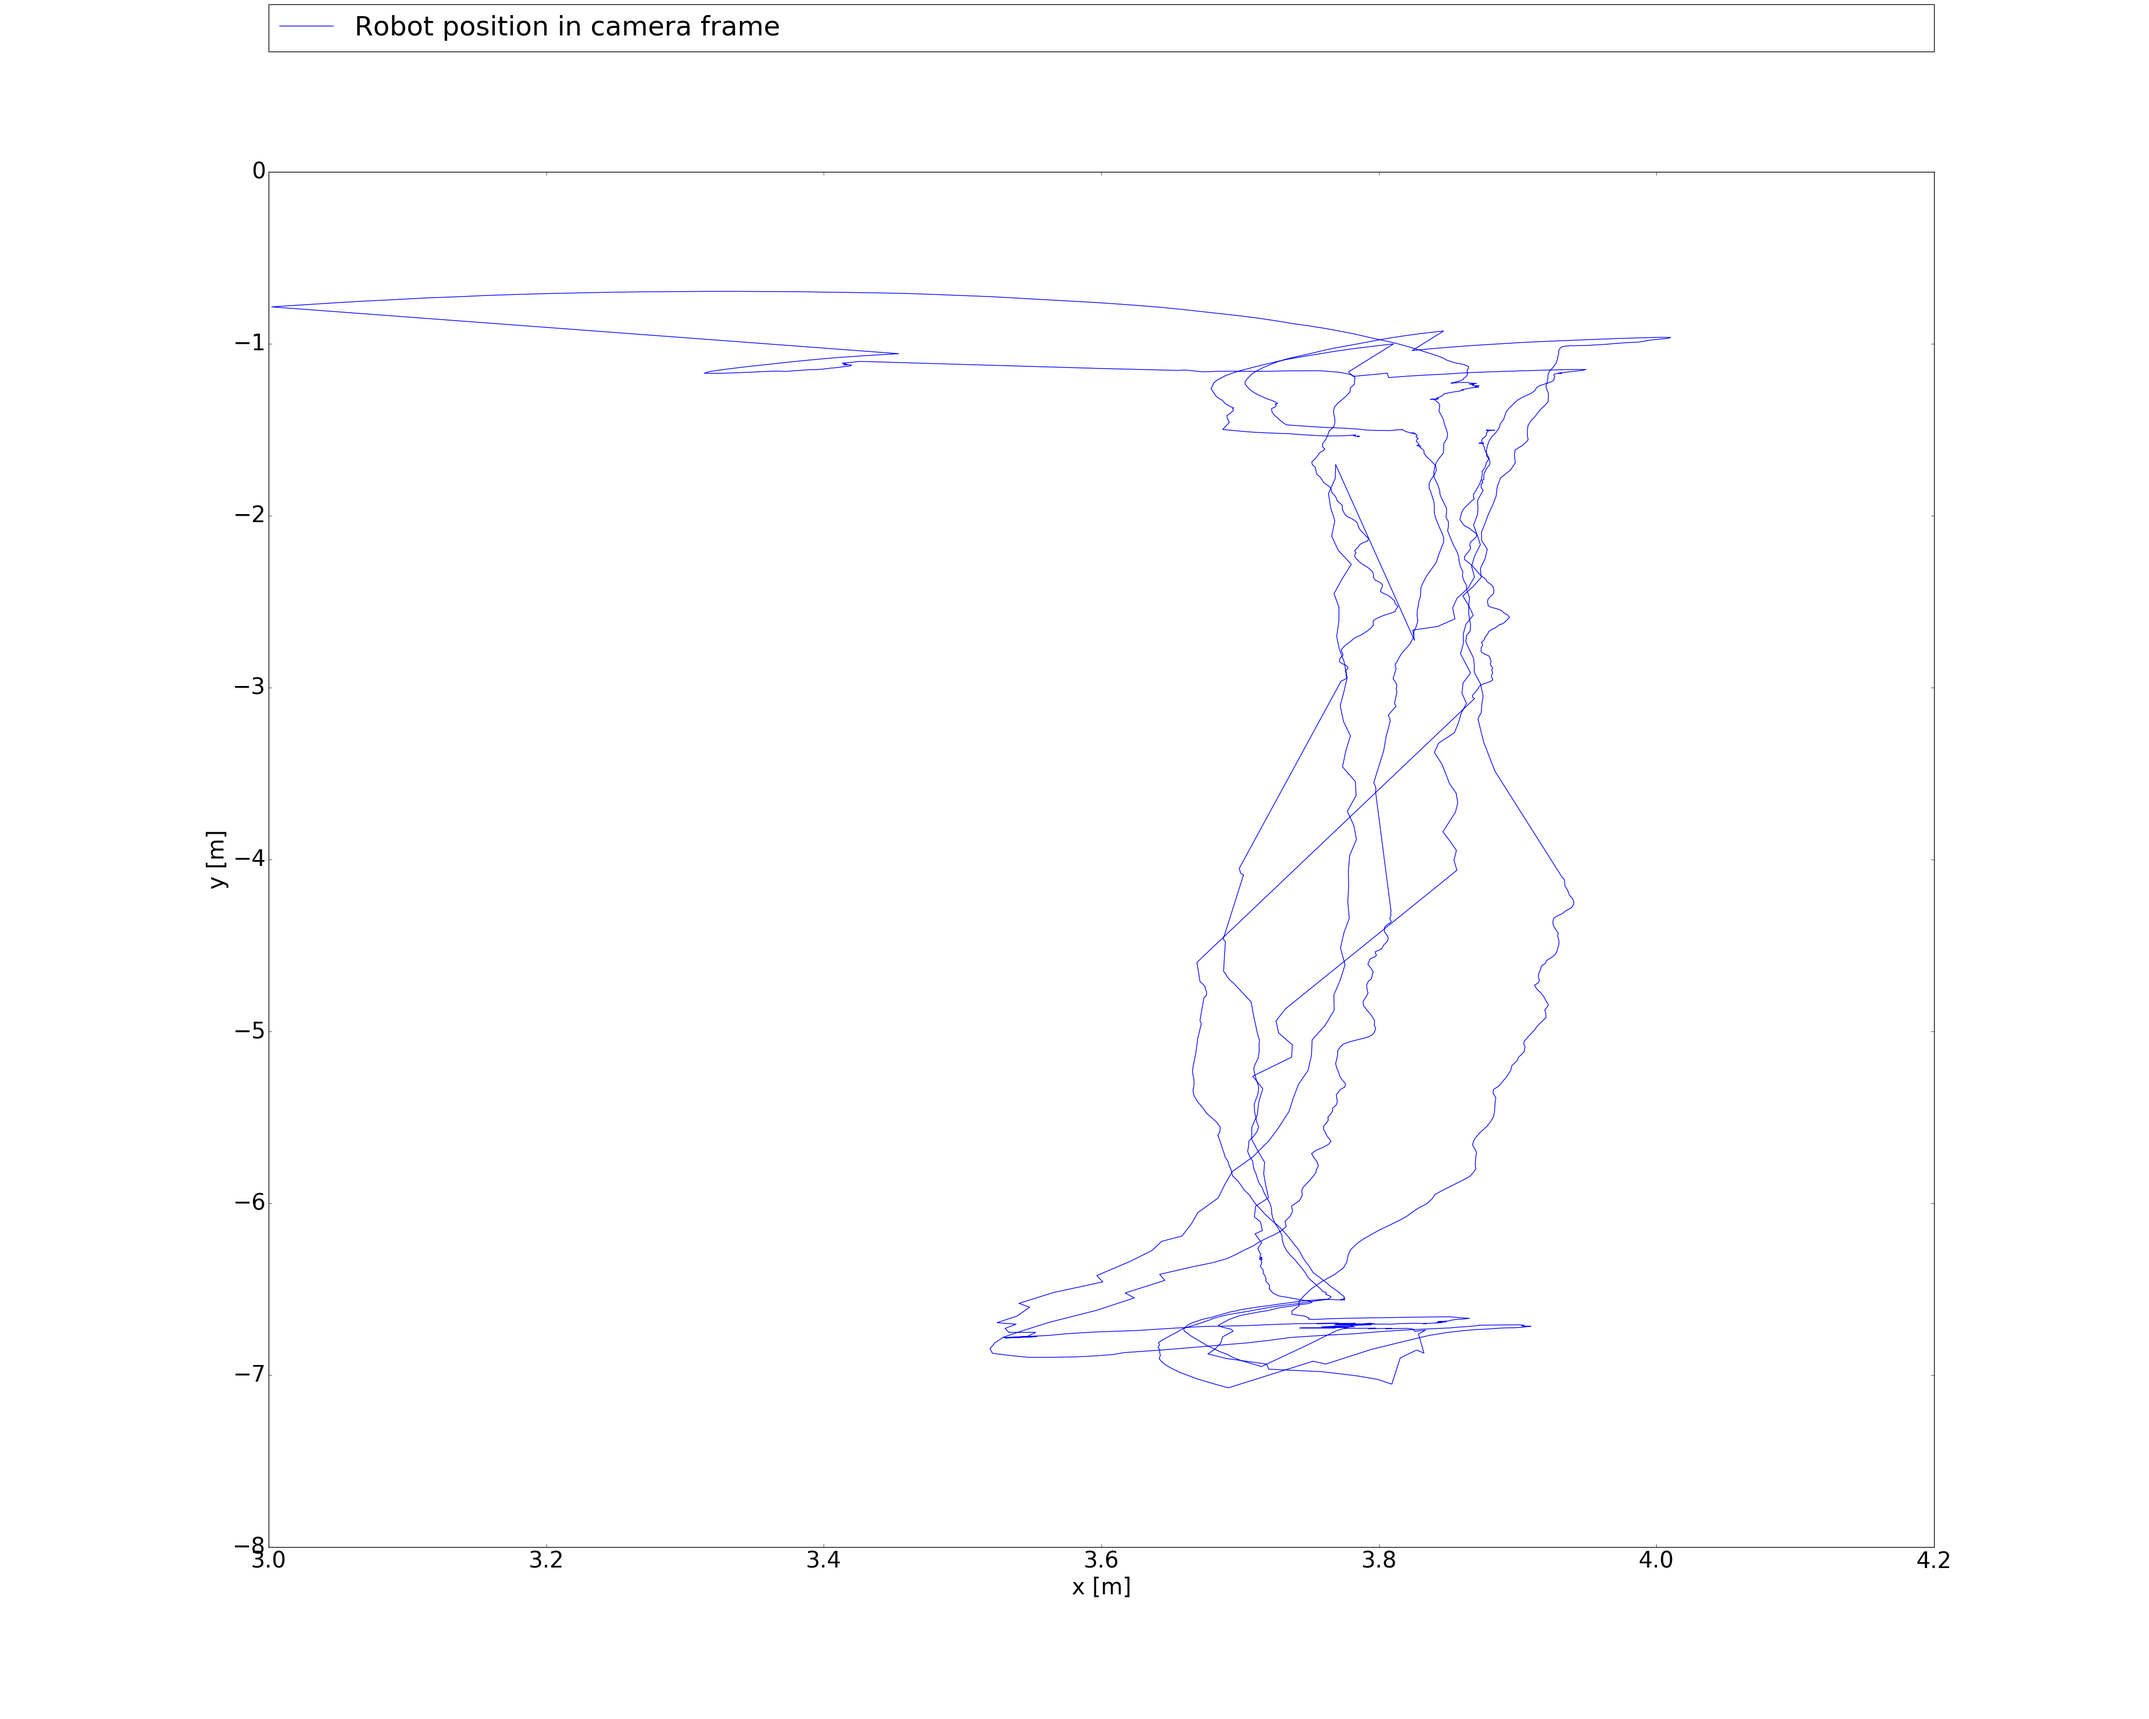
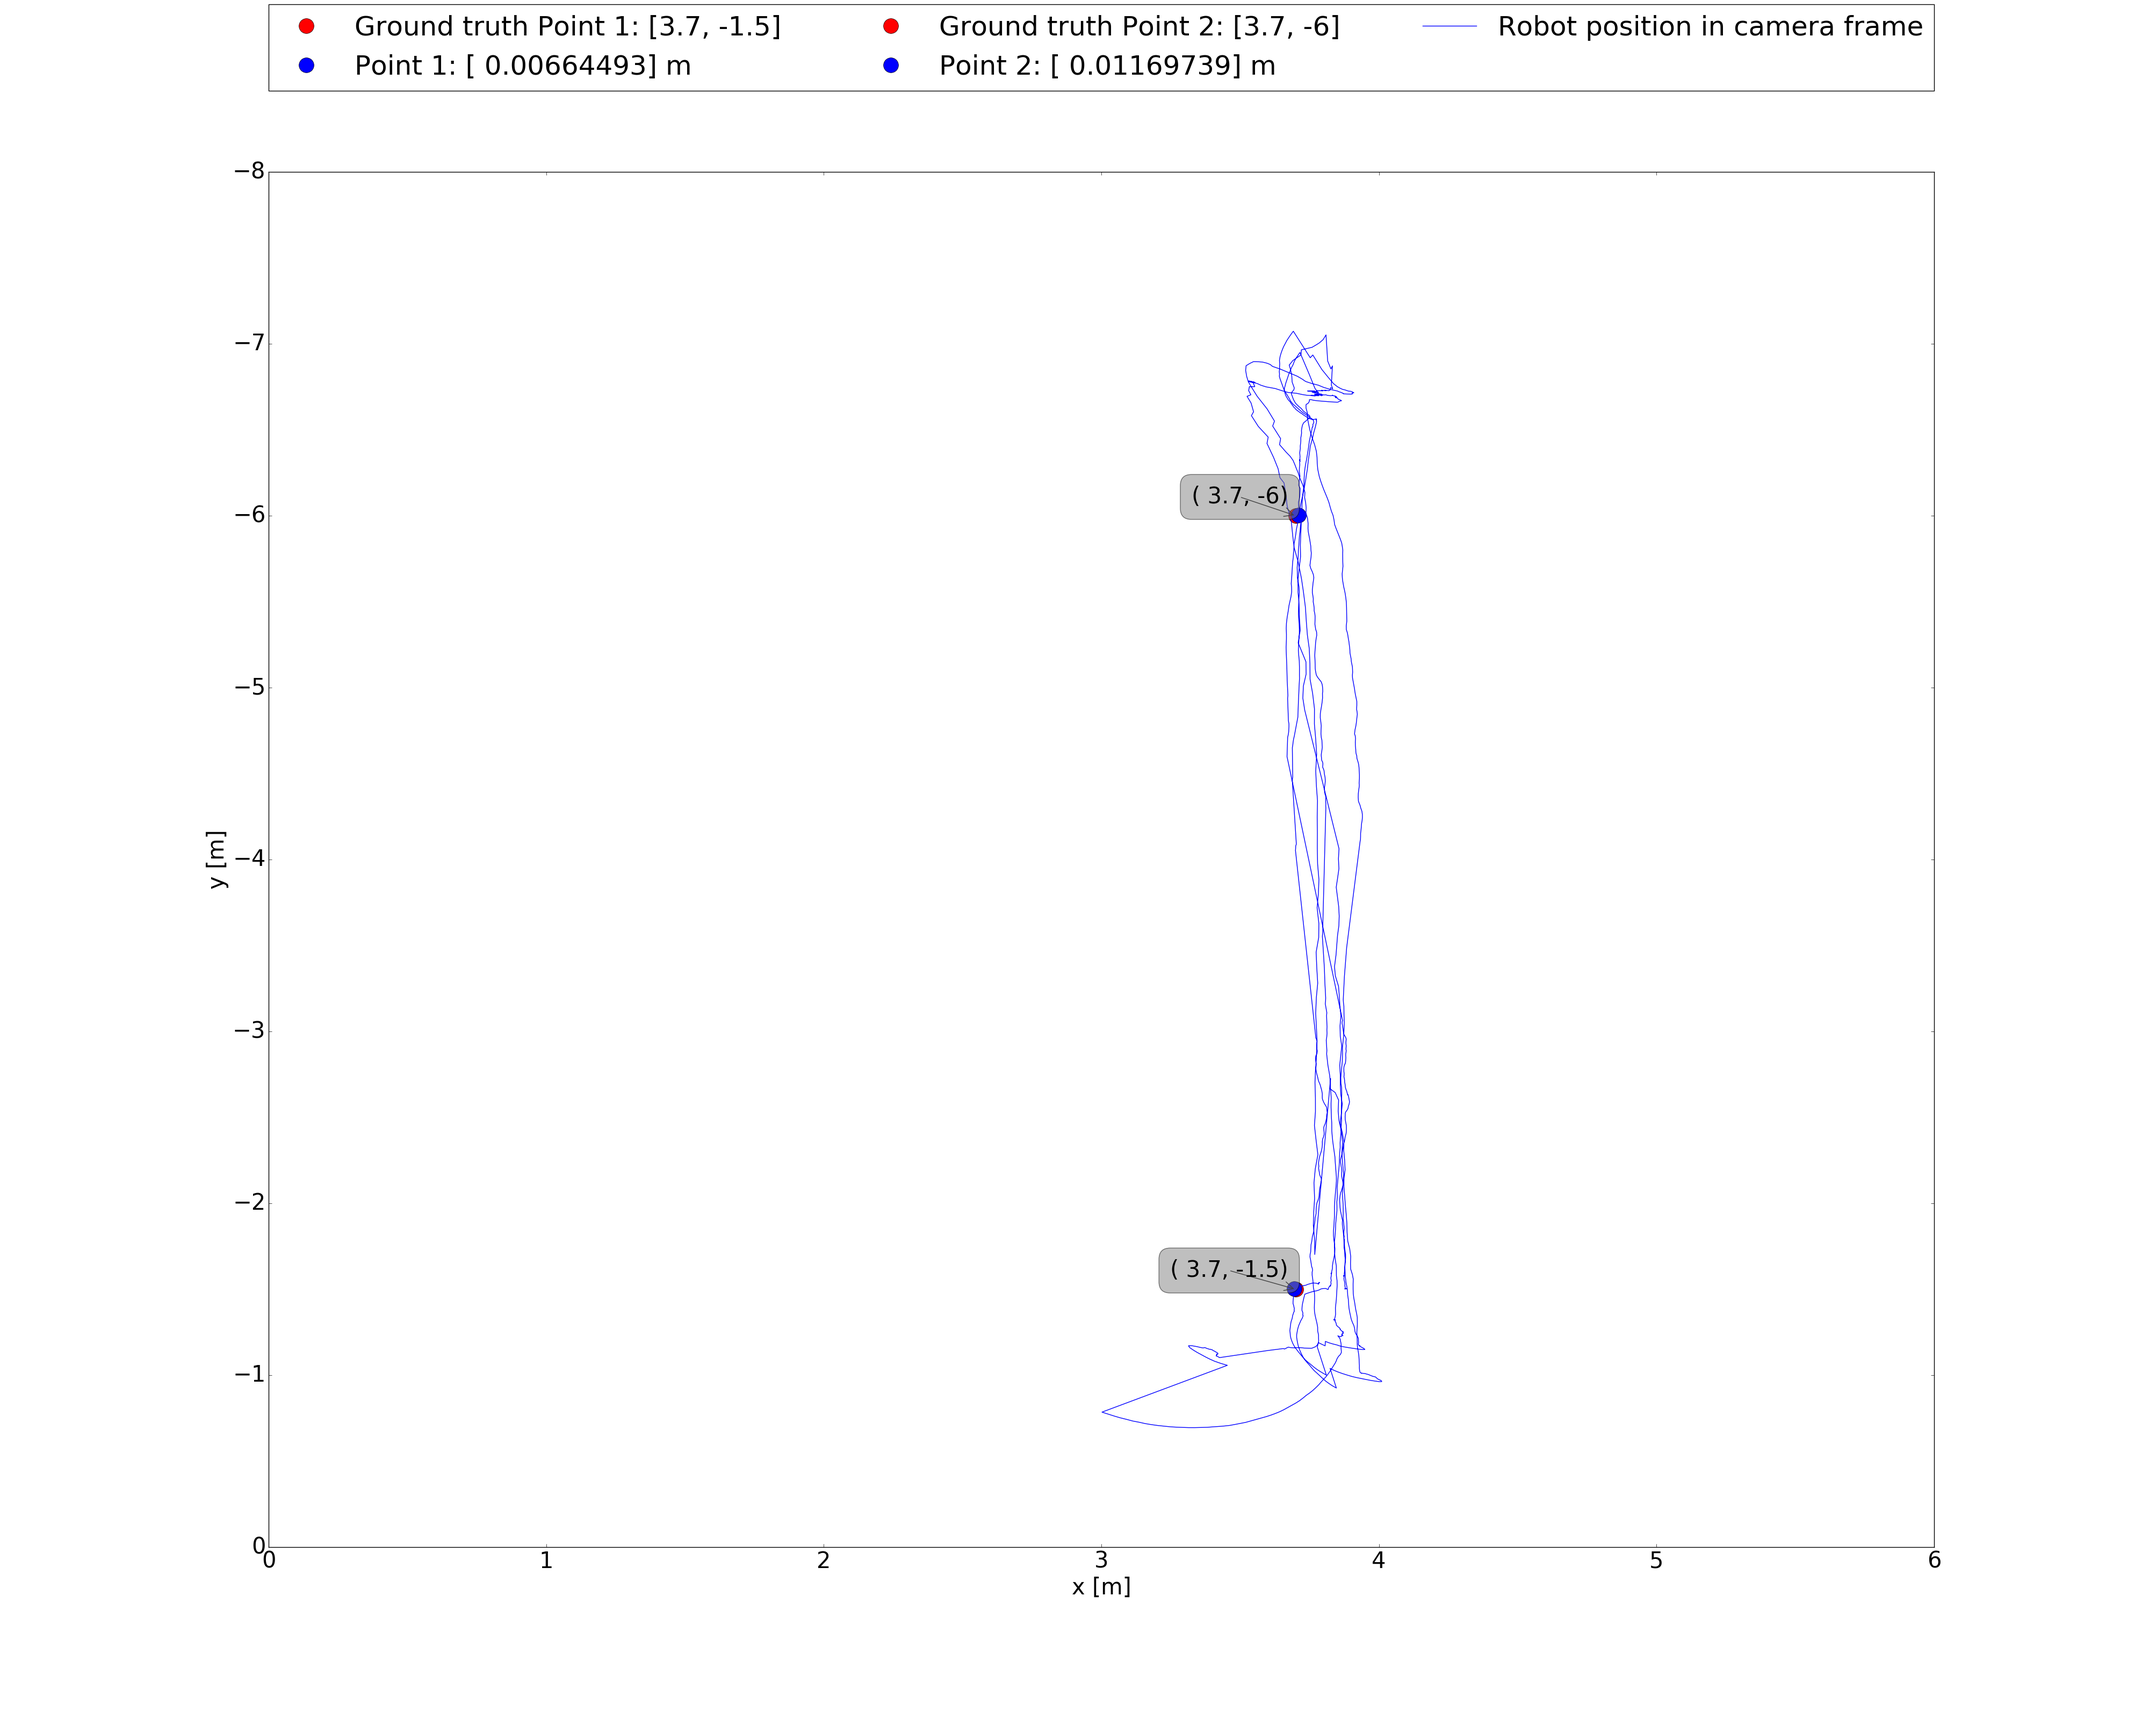
drift

diff --git a/Kyb_prog/indoor_measurment/manual_indoor/drift.py b/Kyb_prog/indoor_measurment/manual_indoor/drift.py
@@ -69,21 +69,25 @@ if __name__== "__main__":
 
     plt.rcParams.update({'font.size': 30})
 
-    file_name = 'sideSquare-base_link_odom_camera_is1500.csv'
+    file_name = 'driftAfter30SecHideFiducial5visibles-base_link_odom_camera_is1500.csv'
     err_min_1, err_min_1, n_1, Strecke_1 = function(file_name)
     # print(Strecke_1[int(1)][int(1)])
-    f = plt.figure(1, figsize=(40, 32))
-    ax = f.add_subplot(111)
-    for i in range(0, len(Strecke_1), 1):
-        plt.plot(Strecke_1[int(i)][int(0)], Strecke_1[int(i)][int(1)], 'o' ,color='red', markersize=20, label="Ground truth Point " +str(i+1) + ": "+str(Strecke_1[i]))
-        plt.plot(base_link_x_odom_camera[int(n_1[i])], base_link_y_odom_camera[int(n_1[i])], 'o' ,color='blue', markersize=20, label="Point " +str(i+1) + ": " + str(err_min_1[i]) + " m")
-        plt.annotate(
-            str('( ' + str(Strecke_1[int(i)][int(0)]) +', ' + str(Strecke_1[int(i)][int(1)]) + ')'),
-            xy=((Strecke_1[int(i)][int(0)]+0.0), (Strecke_1[int(i)][int(1)])+0.0), xytext=(-10, 10),
-            textcoords='offset points', ha='right', va='bottom',
-            bbox=dict(boxstyle='round,pad=0.5', fc='grey', alpha=0.5),
-            arrowprops=dict(arrowstyle = '->', connectionstyle='arc3,rad=0'))
-    plt.plot(base_link_x_odom_camera, base_link_y_odom_camera, label='Robot position in camera frame')
+    # f = plt.figure(1, figsize=(40, 32))
+    # ax = f.add_subplot(111)
+    # for i in range(0, len(Strecke_1), 1):
+    #     plt.plot(Strecke_1[int(i)][int(0)], Strecke_1[int(i)][int(1)], 'o' ,color='red', markersize=20, label="Ground truth Point " +str(i+1) + ": "+str(Strecke_1[i]))
+    #     plt.plot(base_link_x_odom_camera[int(n_1[i])], base_link_y_odom_camera[int(n_1[i])], 'o' ,color='blue', markersize=20, label="Point " +str(i+1) + ": " + str(err_min_1[i]) + " m")
+    #     plt.annotate(
+    #         str('( ' + str(Strecke_1[int(i)][int(0)]) +', ' + str(Strecke_1[int(i)][int(1)]) + ')'),
+    #         xy=((Strecke_1[int(i)][int(0)]+0.0), (Strecke_1[int(i)][int(1)])+0.0), xytext=(-10, 10),
+    #         textcoords='offset points', ha='right', va='bottom',
+    #         bbox=dict(boxstyle='round,pad=0.5', fc='grey', alpha=0.5),
+    #         arrowprops=dict(arrowstyle = '->', connectionstyle='arc3,rad=0'))
+    plt.plot(0, 0, 'o' ,color='black', markersize=10, label="Variance on x : " + str(np.var(base_link_x_odom_camera))+", variance on y : " + str(np.var(base_link_y_odom_camera)))
+    plt.plot(base_link_x_odom_camera[1:300:1], base_link_y_odom_camera[1:300:1], color='blue', label='Robot position, first 30 sec seeing fiducials')
+    plt.plot(base_link_x_odom_camera[301:585:1], base_link_y_odom_camera[301:585:1], color='red', label='Robot position, 30 sec to 60 sec hiding all fiducials')
+    plt.plot(base_link_x_odom_camera[585:1230:1], base_link_y_odom_camera[585:1230:1], color='green', label='Robot position, 60 sec to 120 sec hiding all fiducials')
+
     # plt.plot(base_link_y_odom_camera_tf, base_link_x_odom_camera_tf, label='Camera position in Base link frame with tf')
     # plt.plot(base_camera_y_odom_camera, base_camera_x_odom_camera, label='Camera position in Base camera frame')
     # ax.annotate('local max', xy=(2, 1), xytext=(3, 1.5),
@@ -97,11 +101,11 @@ if __name__== "__main__":
     # plt.title('Measurment of the odometry' + '\n' + file_name)
     # plt.legend()
     plt.legend(numpoints=1, bbox_to_anchor=(0., 1.02, 1., .102), loc=1,
-               ncol=3, mode="expand", borderaxespad=0.) #bbox_to_anchor=(0., 1.02, 1., .102)
+               ncol=1, mode="expand", borderaxespad=0.) #bbox_to_anchor=(0., 1.02, 1., .102)
     # plt.legend(numpoints=1, bbox_to_anchor=(1.05, 1), loc=2, borderaxespad=0.)
     # plt.legend(numpoints=1, bbox_to_anchor=(1.05, 1), loc=2, borderaxespad=0.)
     # f.set_size_inches(20, 15)
-    f.savefig(file_name+'.png')
+    # f.savefig(file_name+'.png')
     # plt.close(f)
 
     plt.show()
